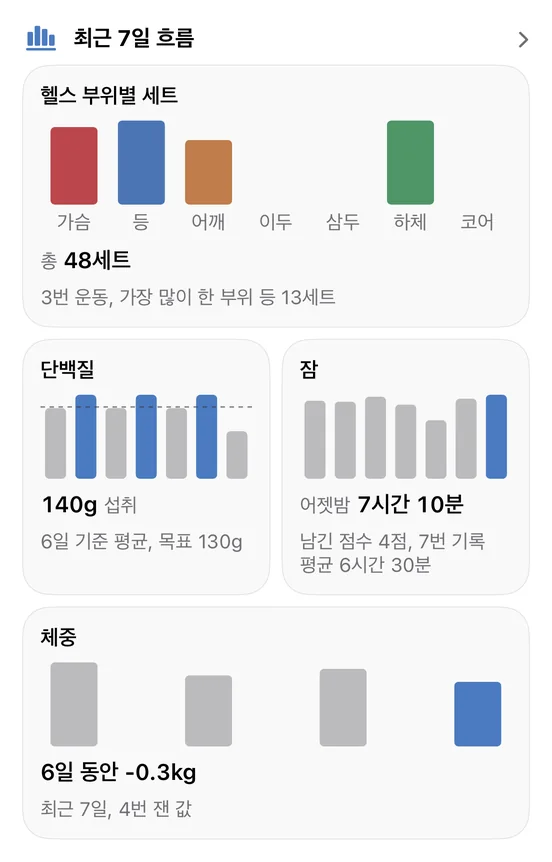
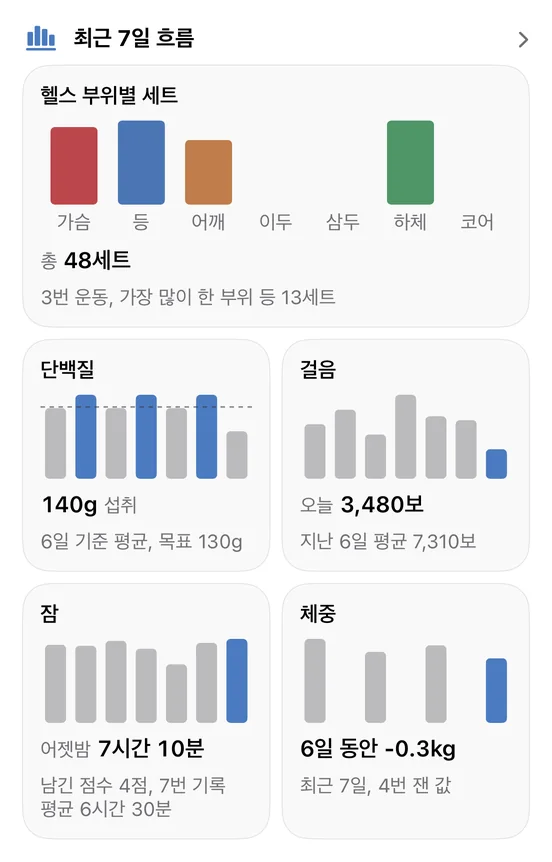
사이트 갱신 (앱 저장소 208d6c7fb)

diff --git a/index.html b/index.html
@@ -546,7 +546,7 @@
           <div class="shot">
             <img src="img/recent-week.webp" srcset="img/recent-week-sm.webp 552w, img/recent-week.webp 1104w" sizes="(max-width: 432px) calc(100vw - 32px), 400px"
                  width="1104" height="1723" loading="lazy" decoding="async"
-                 alt="홈의 최근 7일 흐름 카드. 네 칸에 작은 막대 그래프와 큰 값이 있다. 헬스 부위별 세트 총 48세트(3번 운동, 가장 많이 한 부위 등 13세트), 단백질 140g 섭취(6일 기준 평균, 목표 130g), 잠 어젯밤 7시간 10분(남긴 점수 4점, 7번 기록 평균 6시간 30분), 체중 6일 동안 -0.3kg(최근 7일, 4번 잰 값). 예시 기록.">
+                 alt="홈의 최근 7일 흐름 카드. 다섯 칸에 작은 막대 그래프와 큰 값이 있다. 헬스 부위별 세트 총 48세트(3번 운동, 가장 많이 한 부위 등 13세트), 단백질 140g 섭취(6일 기준 평균, 목표 130g), 걸음 오늘 3,480보(지난 6일 평균 7,310보), 잠 어젯밤 7시간 10분(남긴 점수 4점, 7번 기록 평균 6시간 30분), 체중 6일 동안 -0.3kg(최근 7일, 4번 잰 값). 예시 기록.">
           </div>
         </div>
       </article>
